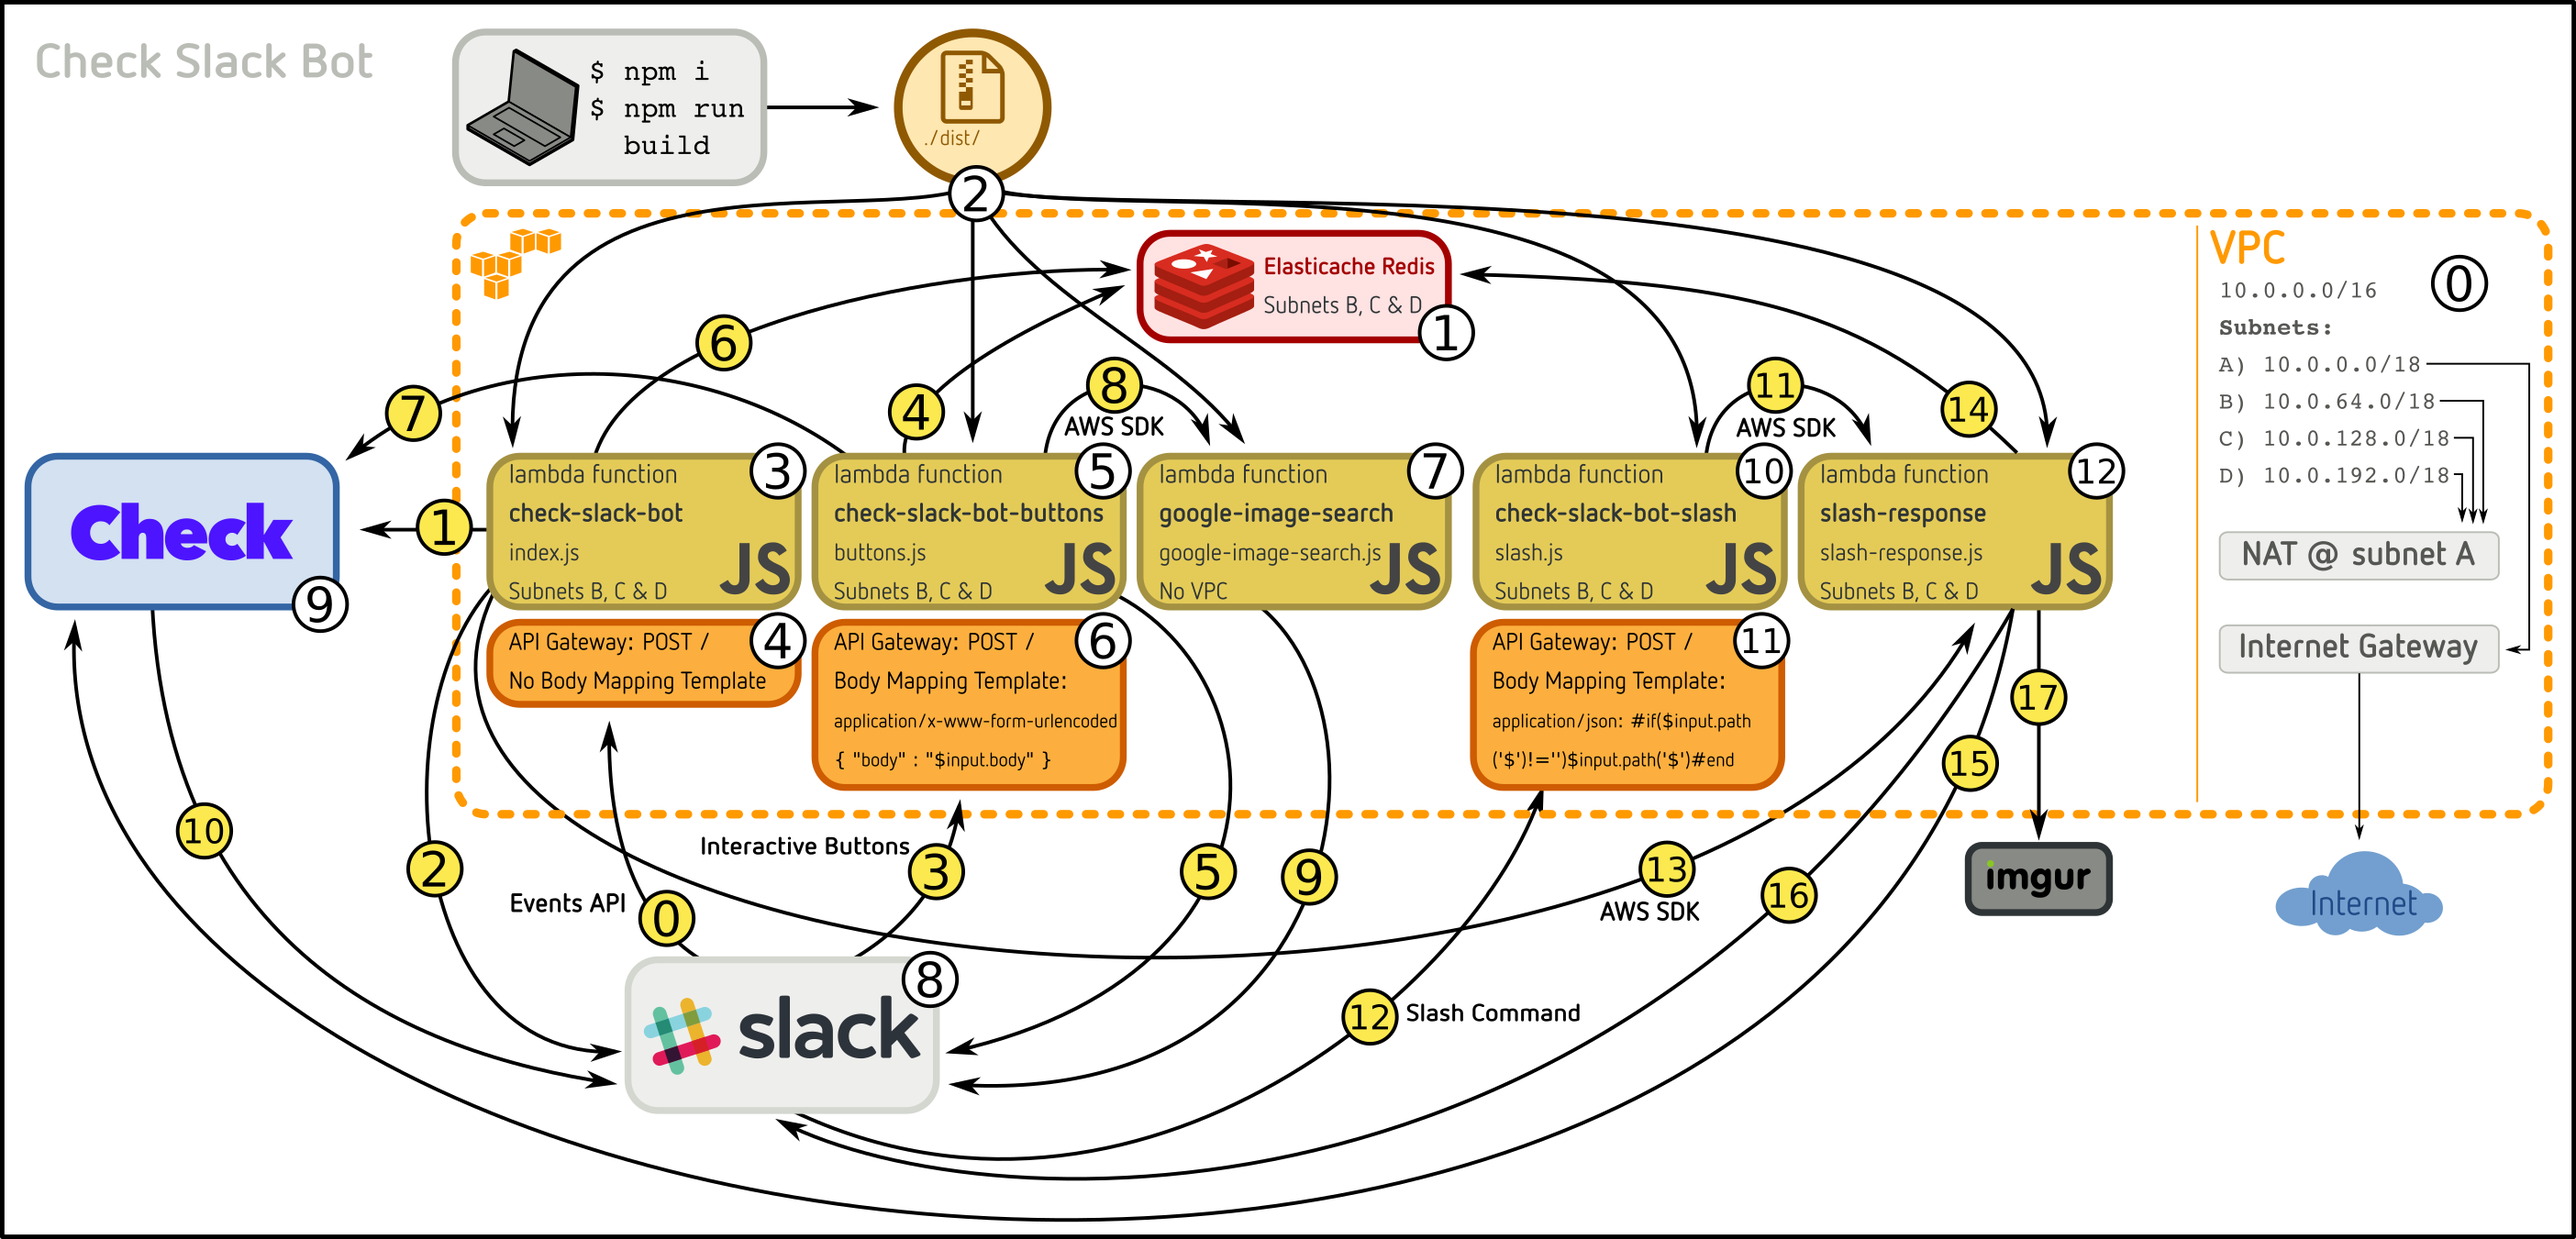
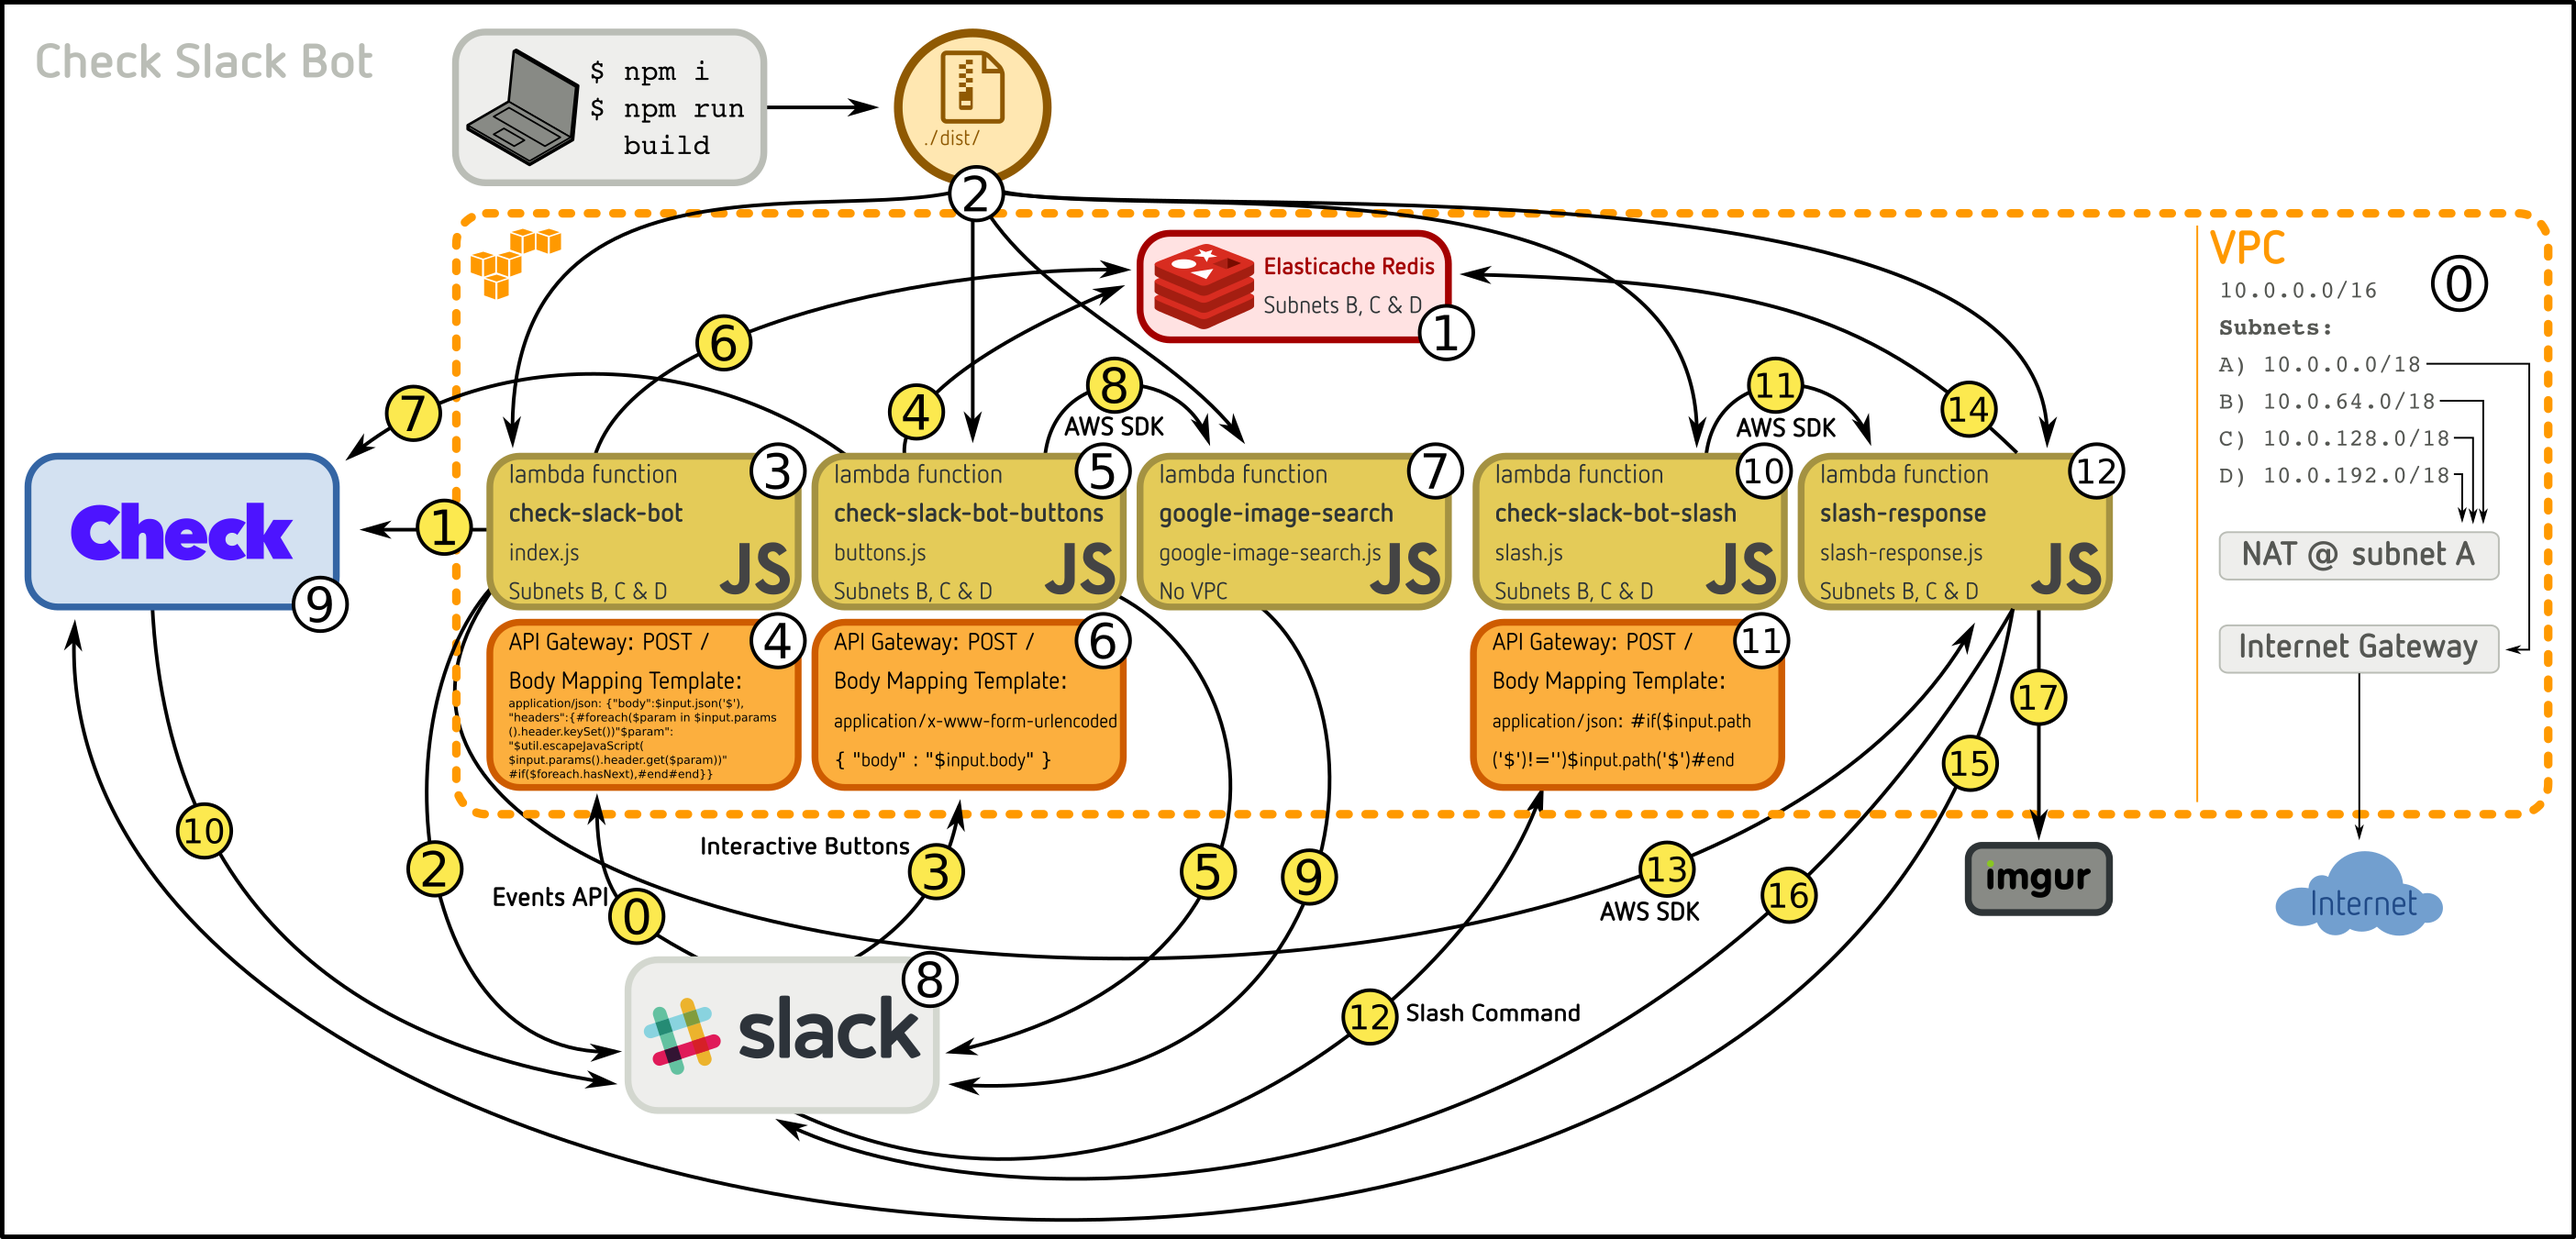
Ticket #7258: Avoid parsing the same event from Slack repeatedly

diff --git a/index.js b/index.js
@@ -573,18 +573,27 @@ const markTranslationAsError = function(event, data, token, callback, done) {
   executeMutation(mutationQuery, vars, sendErrorMessage, done, token, callback, event, data);
 };
 
-exports.handler = function(data, context, callback) {
-  switch (data.type) {
-    case 'url_verification':
-      verify(data, callback);
-      break;
-    case 'event_callback':
-      const teamConfig = getTeamConfig(data.team_id);
-      teamConfig.teamId = data.team_id;
-      ACCESS_TOKEN = teamConfig.accessToken;
-      process(data.event, callback, teamConfig);
-      break;
-    default:
-      callback(null);
+exports.handler = function(event, context, callback) {
+  let data = event;
+  if (event.headers && event.body) {
+    data = event.body;
+  }
+  if (event.headers && event.headers['X-Slack-Retry-Num'] && event.headers['X-Slack-Retry-Reason'] === 'http_timeout') {
+    callback(null);
+  }
+  else {
+    switch (data.type) {
+      case 'url_verification':
+        verify(data, callback);
+        break;
+      case 'event_callback':
+        const teamConfig = getTeamConfig(data.team_id);
+        teamConfig.teamId = data.team_id;
+        ACCESS_TOKEN = teamConfig.accessToken;
+        process(data.event, callback, teamConfig);
+        break;
+      default:
+        callback(null);
+    }
   }
 };

diff --git a/server.js b/server.js
@@ -32,7 +32,7 @@ functions.forEach(function(name) {
     else {
       console.log(util.inspect(headers));
       console.log(util.inspect(data));
-      lambda(data, { source: 'local' }, generateCallback(response));
+      lambda({ body: data, headers }, { source: 'local' }, generateCallback(response));
       console.log('--------------------------------------------------------------------------------------');
     }
   });

diff --git a/README.md b/README.md
@@ -29,7 +29,19 @@ The steps below reference the **white** circles on the diagram above.
 * Install the dependencies with `npm i` and generate a ZIP package with `npm run build`
 * The same `./dist/aws_lambda_functions.zip` file that was generated should be uploaded to five lambda functions **[2]**. The following sections explain how those five functions should be created.
 * Create a Lambda function called `check-slack-bot`, whose handler is `index.handler`. It should use subnets `B`, `C` and `D`. **[3]**
-* Add a trigger to this Lambda function, of type "API Gateway". The API should have a single endpoint, that accepts only `POST` requests. Remember to deploy your API once done. **[4]**
+* Add a trigger to this Lambda function, of type "API Gateway". The API should have a single endpoint, that accepts only `POST` requests. **[4]**
+* Add a `Mapping Template` to your API `POST` method for the content type `application/json`. The contents of the template should be:
+```
+{
+  "body" : $input.json('$'),
+  "headers": {
+    #foreach($param in $input.params().header.keySet())
+      "$param": "$util.escapeJavaScript($input.params().header.get($param))" #if($foreach.hasNext),#end         
+    #end
+  }
+}
+```
+* Remember to re-deploy the API after that. **[4]**
 * Create a Lambda function called `check-slack-bot-buttons`, whose handler is `buttons.handler`. It should use subnets `B`, `C` and `D`. **[5]**
 * Add a trigger to this Lambda function, of type "API Gateway". The API should have a single endpoint, that accepts only `POST` requests. By default, the AWS API Gateway only accepts `application/json` requests, but Slack is going to send `application/x-www-form-urlencoded` requests when a message button is clicked. So, add a `Body Mapping Template` to your API `POST` method for the content type `application/x-www-form-urlencoded`. The contents of the template should be `{ "body": "$input.body" }`. Also, under the "Binary Support" section, add `application/x-www-form-urlencoded` as a content type to be considered binary input. Remember to deploy your API once all those things are done. **[6]**
 * Create a Lambda function called `google-image-search`, whose handler is `google-image-search.handler` **[7]**
